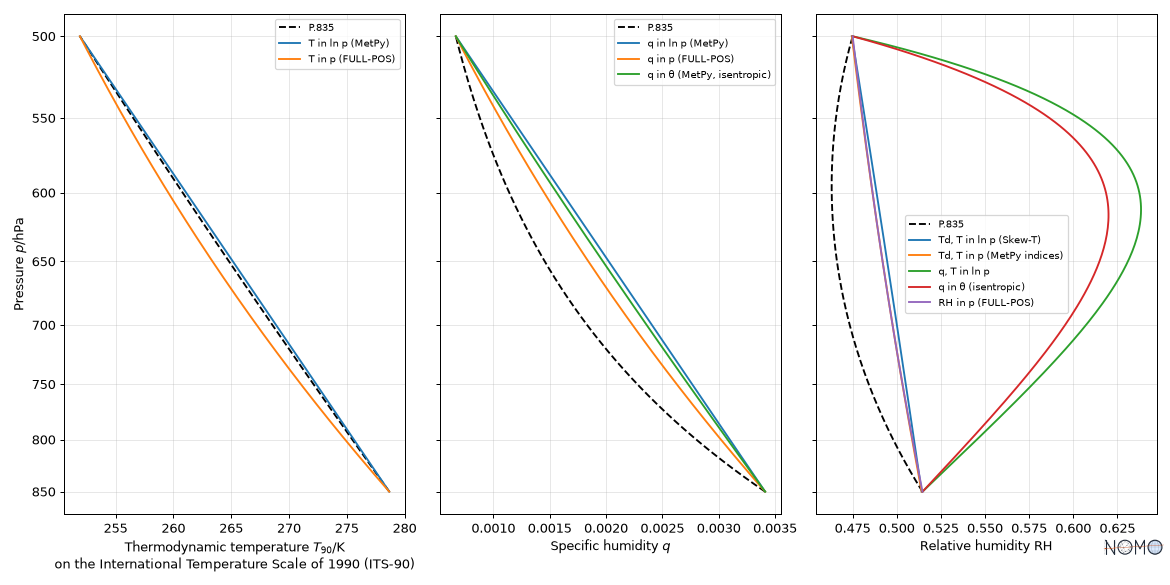
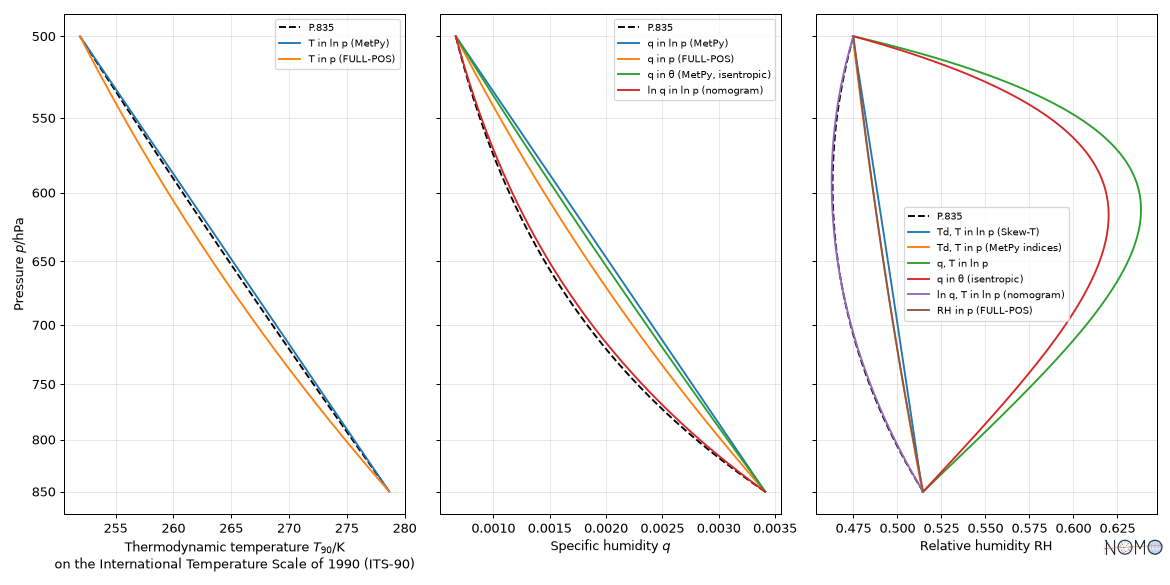
feat(atmosphere): specific humidity between two levels, its logarithm linear in ln p
A scheme written by nomogram, no source found: q a power of p between the two levels, and the relative humidity that follows, within 0.03 point of the reference atmosphere at 700 hPa where the chords in q are 12 to 13 points too humid. In the figure and the table of docs/vertical.md.

diff --git a/tests/test_atmosphere.py b/tests/test_atmosphere.py
@@ -376,7 +376,7 @@ def test_relative_humidity_between_two_levels_by_each_practice_of_metpy() -> Non
     # the dew point interpolated, by a Skew-T or a stability index, is
     # 2.4 to 2.7 points too humid; the specific humidity, in ln p or in the
     # potential temperature, 12 to 13 points, a chord above a decrease
-    # close to exponential.
+    # close to exponential, which its logarithm in ln p follows.
     from nomogram.inversion import invert
     from nomogram.model import Variable
 
@@ -404,6 +404,7 @@ def test_relative_humidity_between_two_levels_by_each_practice_of_metpy() -> Non
         "metpy171_relative_humidity_dew_point_pressure": (dew, 2.43),
         "metpy171_relative_humidity_specific_humidity_log_pressure": (humid, 13.38),
         "metpy171_relative_humidity_isentropic": (humid, 12.20),
+        "relative_humidity_log_specific_humidity_log_pressure": (humid, 0.03),
     }
     assert truth.to("percent").magnitude == pytest.approx(47.34, abs=0.01)
     for key, (values, error) in routes.items():

diff --git a/docs/examples/humidity_between_levels.py b/docs/examples/humidity_between_levels.py
@@ -80,12 +80,14 @@ def main(output: str) -> None:
         "log_pressure_interpolation_specific_humidity": "q in ln p (MetPy)",
         "pressure_interpolation_specific_humidity": "q in p (FULL-POS)",
         "metpy171_isentropic_specific_humidity": "q in θ (MetPy, isentropic)",
+        "log_pressure_interpolation_log_specific_humidity": "ln q in ln p (nomogram)",
     }
     routes = {
         "metpy171_relative_humidity_dew_point_log_pressure": "Td, T in ln p (Skew-T)",
         "metpy171_relative_humidity_dew_point_pressure": "Td, T in p (MetPy indices)",
         "metpy171_relative_humidity_specific_humidity_log_pressure": "q, T in ln p",
         "metpy171_relative_humidity_isentropic": "q in θ (isentropic)",
+        "relative_humidity_log_specific_humidity_log_pressure": "ln q, T in ln p (nomogram)",
         "pressure_interpolation_relative_humidity": "RH in p (FULL-POS)",
     }
     grid = {"Pressure": Q_(np.linspace(850, 500, 141), "hPa")}

diff --git a/tests/test_examples.py b/tests/test_examples.py
@@ -98,6 +98,7 @@ def test_vertical_guide_code_gives_the_values_it_states() -> None:
             "pressure_interpolation_relative_humidity": 49.76,
             "metpy171_relative_humidity_isentropic": 59.54,
             "metpy171_relative_humidity_specific_humidity_log_pressure": 60.72,
+            "relative_humidity_log_specific_humidity_log_pressure": 47.36,
         },
         abs=0.005,
     )

diff --git a/tests/test_catalog.py b/tests/test_catalog.py
@@ -461,6 +461,7 @@ def test_catalog_declares_only_units_inference_cannot_give() -> None:
         "metpy171_relative_humidity_dew_point_pressure",
         "metpy171_relative_humidity_specific_humidity_log_pressure",
         "metpy171_relative_humidity_isentropic",
+        "relative_humidity_log_specific_humidity_log_pressure",
     )
     assert {
         k: v

diff --git a/docs/vertical.md b/docs/vertical.md
@@ -232,6 +232,7 @@ they compare side by side:
 | dew point and temperature linear in p | `metpy171_relative_humidity_dew_point_pressure` |
 | specific humidity and temperature linear in ln p | `metpy171_relative_humidity_specific_humidity_log_pressure` |
 | specific humidity linear in θ, temperature linear in ln p | `metpy171_relative_humidity_isentropic` |
+| ln q and temperature linear in ln p, a scheme nomogram writes without a source | `relative_humidity_log_specific_humidity_log_pressure` |
 | relative humidity linear in p | `pressure_interpolation_relative_humidity` |
 
 Between 850 and 500 hPa of the ITU-R reference atmosphere, its profile
@@ -295,12 +296,14 @@ humidities = {
     "log_pressure_interpolation_specific_humidity": "q in ln p (MetPy)",
     "pressure_interpolation_specific_humidity": "q in p (FULL-POS)",
     "metpy171_isentropic_specific_humidity": "q in θ (MetPy, isentropic)",
+    "log_pressure_interpolation_log_specific_humidity": "ln q in ln p (nomogram)",
 }
 routes = {
     "metpy171_relative_humidity_dew_point_log_pressure": "Td, T in ln p (Skew-T)",
     "metpy171_relative_humidity_dew_point_pressure": "Td, T in p (MetPy indices)",
     "metpy171_relative_humidity_specific_humidity_log_pressure": "q, T in ln p",
     "metpy171_relative_humidity_isentropic": "q in θ (isentropic)",
+    "relative_humidity_log_specific_humidity_log_pressure": "ln q, T in ln p (nomogram)",
     "pressure_interpolation_relative_humidity": "RH in p (FULL-POS)",
 }
 grid = {"Pressure": Q_(np.linspace(850, 500, 141), "hPa")}
@@ -323,6 +326,7 @@ At 700 hPa, where the relative humidity of the reference atmosphere is
 
 | Relative humidity from | At 700 hPa | Error |
 |---|---|---|
+| ln q and temperature linear in ln p | 47.36 % | +0.03 point |
 | dew point and temperature linear in ln p | 50.01 % | +2.67 points |
 | dew point and temperature linear in p | 49.76 % | +2.43 points |
 | relative humidity linear in p | 49.76 % | +2.43 points |
@@ -334,8 +338,11 @@ chord between two levels lies above it, and the relative humidity drawn
 from it is 12 to 13 points too high halfway. The dew point decreases
 nearly linearly, the saturation vapour pressure being nearly exponential
 in it: interpolated, it stays within 3 points, as does the relative
-humidity interpolated directly. The relative humidity follows from the
-variable interpolated, not from the formula that then gives it. This
+humidity interpolated directly. Its logarithm, linear in ln p
+(`log_pressure_interpolation_log_specific_humidity`, written by nomogram:
+no source was found), follows the specific humidity within 0.03 point.
+The relative humidity follows from the variable interpolated, not from
+the formula that then gives it. This
 layer, 350 hPa thick, and this humidity, exponential by construction
 (P.835, equation 6), magnify the differences: between the close levels
 of a radiosonde they shrink, and inversions or dry layers can reorder

diff --git a/CHANGELOG.md b/CHANGELOG.md
@@ -104,6 +104,11 @@ and this project adheres to
   practices, composed from them: `docs/vertical.md` compares them on the
   ITU-R reference atmosphere, in a figure, and reproduces MetPy's mixed
   parcel from the formulations.
+- The specific humidity between two levels, its logarithm linear in that
+  of the pressure, a scheme nomogram writes without a source, and the
+  relative humidity that follows: within 0.03 point of the reference
+  atmosphere's at 700 hPa, where the chords in q are 12 to 13 points too
+  humid.
 - `nomogram.comparison.partial` fixes some inputs of a formulation, as
   `functools.partial` fixes arguments: the two levels of an
   interpolation scheme, so that schemes compare along the target
